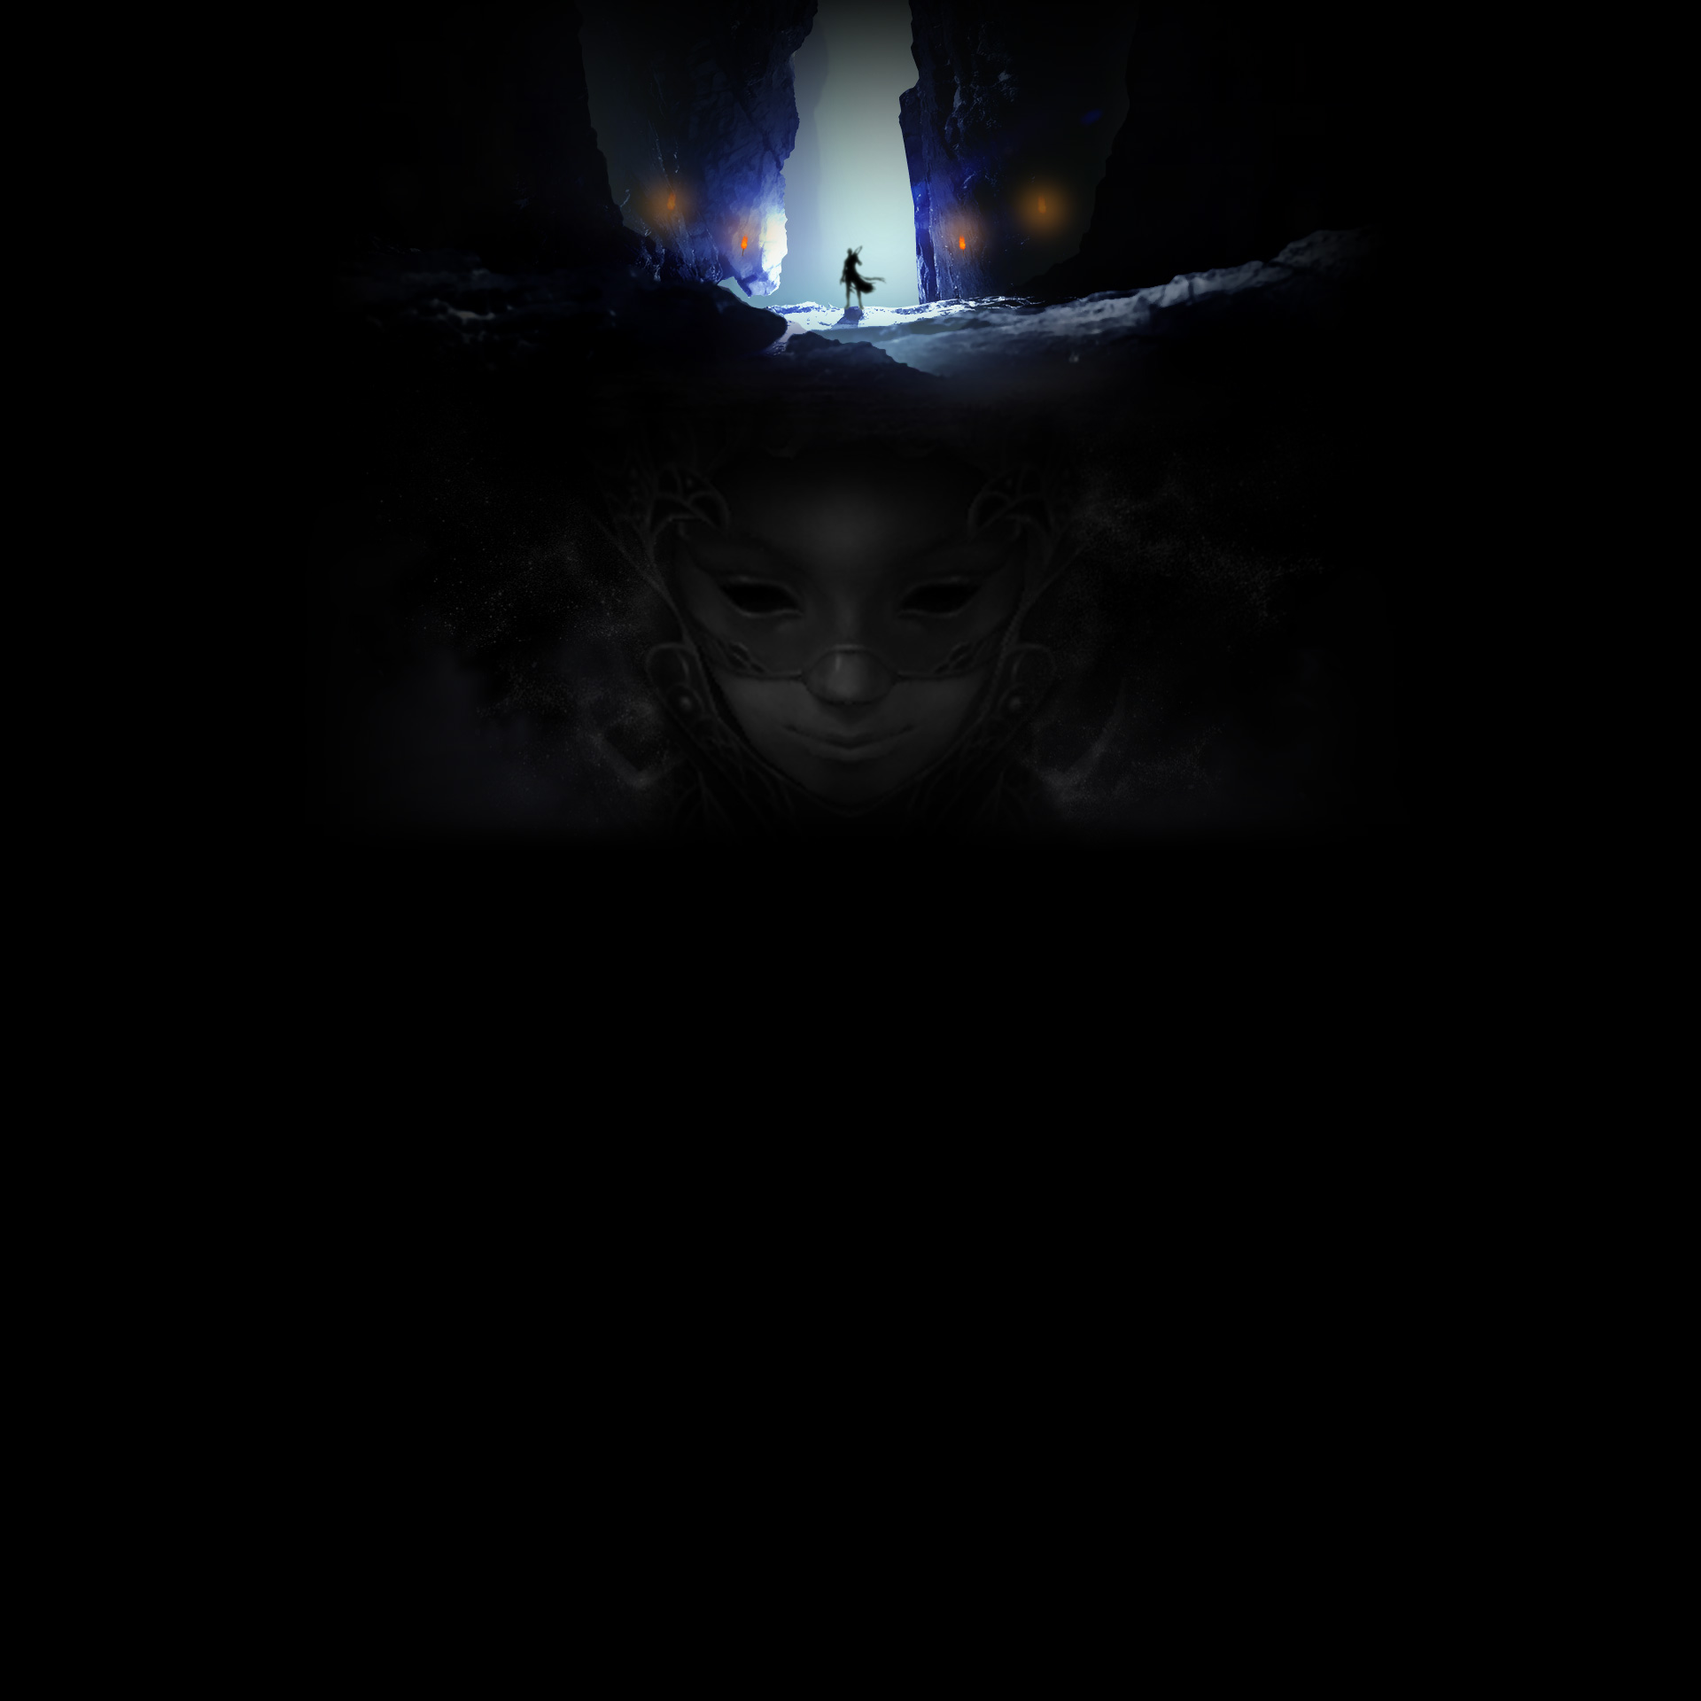
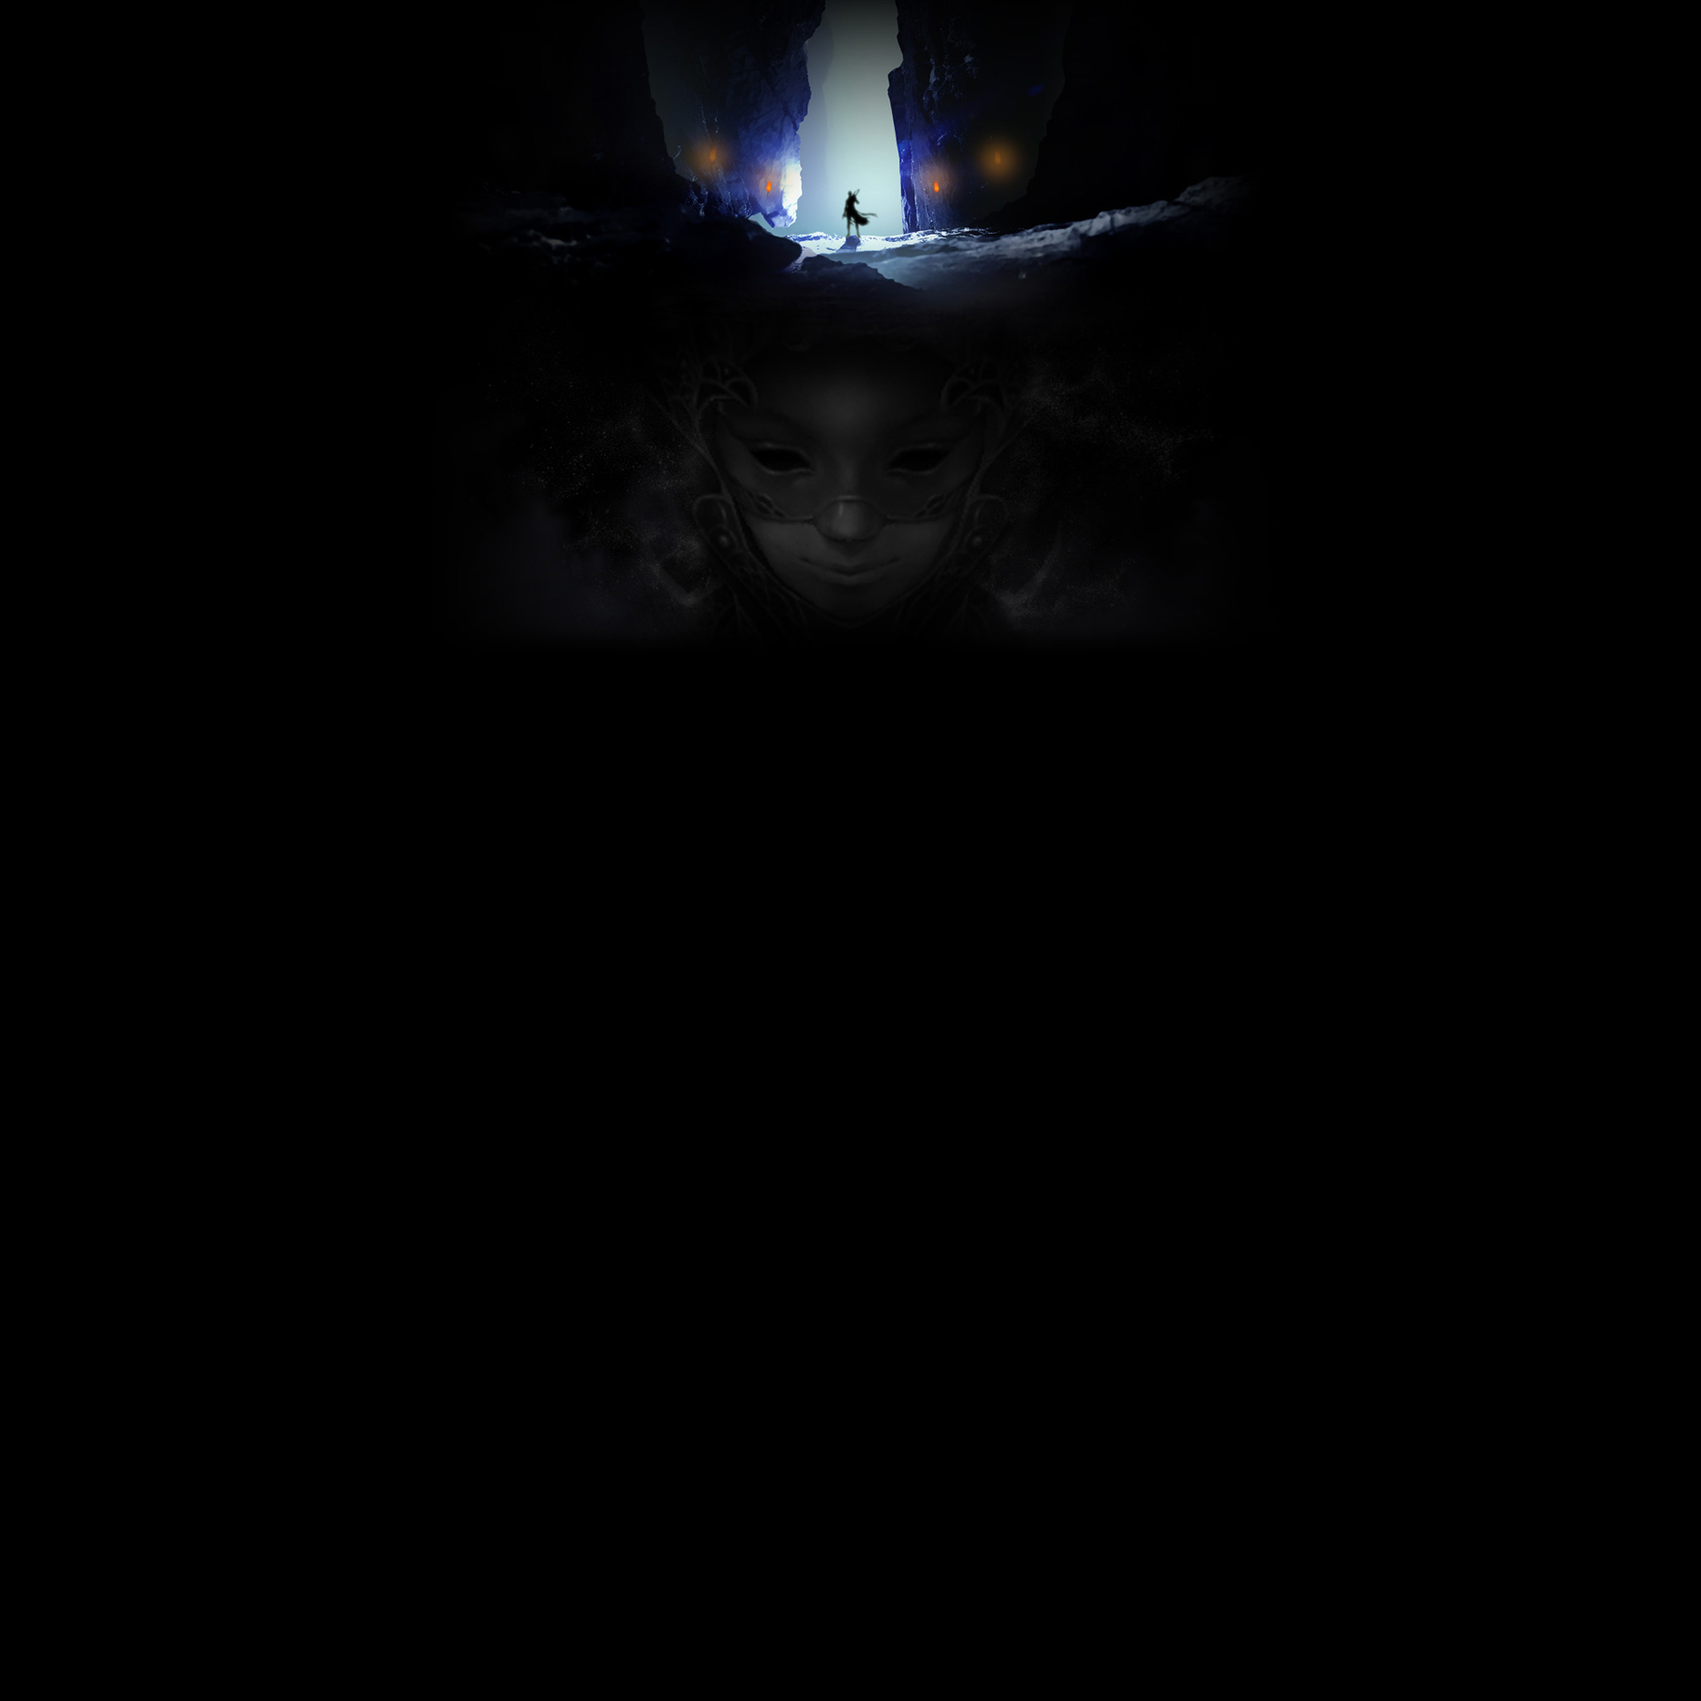
하단 네비게이션 추가 및 이미지 추가

diff --git a/work/23/js/update.js b/work/23/js/update.js
@@ -30,14 +30,15 @@ $(window).on({
             }else{
                 //메인 타이틀
                 var mainTitleTl = new TimelineMax();
-                mainTitleTl.fromTo($(".main_title h2 .m1, .main_title h2 .m2"), 1.2, {x:-0, y:-0, opacity:0, scaleX:1, scaleY:2}, {x:0, y:0, opacity:0.25, scaleX:1, scaleY:1, delay:0.15, ease:Power3.easeInOut})
+                mainTitleTl.fromTo($(".main_title h2 .m1, .main_title h2 .m2"), 1.2, {opacity:0, scaleX:1, scaleY:2}, {opacity:0.25, scaleX:1, scaleY:1, delay:0.15, ease:Power3.easeInOut})
                 .to($(".main_title h2 .m1, .main_title h2 .m2"), 1.5, {opacity:1, ease:Sine.easeInOut}, "-=0.45");
+                TweenMax.fromTo($(".main_title h2 .m3"), 1, {opacity:0}, {opacity:1, delay:0.5, ease:Sine.easeInOut});
                 TweenMax.fromTo($(".main_title .sub_title"), 0.75, {y:20, opacity:0}, {y:0, opacity:1, delay:1.3, ease:Sine.easeInOut});
                 TweenMax.fromTo($(".main_title .season"), 0.75, {y:-20, opacity:0}, {y:0, opacity:1, delay:1.3, ease:Sine.easeInOut});
                 TweenMax.fromTo($(".main_title .date"), 1, {opacity:0}, {opacity:1, delay:1.8, ease:Sine.easeInOut});
 
                 //메인 스모크
-                var smokeTL = new TimelineMax({repeat:-1, repeatDelay:-1.5, yoyo:false});
+                var smokeTL = new TimelineMax({repeat:-1, repeatDelay:-2.5, yoyo:false});
                 var smokePosition1 = [
                     {x:0, y:0, autoAlpha:0},
                     {x:100, y:-250, autoAlpha:1},
@@ -55,24 +56,47 @@ $(window).on({
                 ]
                 smokeTL.to($(".smoke .s1"), 8.5, {bezier:{type:"soft", values:smokePosition1}})
                 .to($(".smoke .s2"), 8.5, {bezier:{type:"soft", values:smokePosition2}}, "-=7.5")
-                .to($(".smoke .s3"), 6.5, {bezier:{type:"soft", values:smokePosition3}}, "-=7.5");
+                .to($(".smoke .s3"), 5.5, {bezier:{type:"soft", values:smokePosition3}}, "-=7.5");
             }
         }());
         
+        //메인 메뉴 클릭 이동
+        buttonClickScrollingPosition(".main_menu li");
+
         //네이게이션 클릭 이동
-        $(".nav li").find(">button").on("click", function(){
-            var arrSectionOffsetLeft =  getArrarrSectionOffsetLeft();
-            if($(this).parents("li").index() === 0){
-                $("html, body").scrollLeft(arrSectionOffsetLeft[1]);
-            }else{
-                $("html, body").scrollLeft(arrSectionOffsetLeft[4]);
-            }
-        });
+        buttonClickScrollingPosition(".nav li");
 
         //첫화면으로 클릭 이동
-        $(".btn_left").on("click", function(){
-            $("html, body").scrollLeft(0);
-        });
+        buttonClickScrollingPosition(".btn_left");
+
+        function buttonClickScrollingPosition(element){
+            var arrSectionOffsetLeft =  getArrSectionOffsetLeft();
+            var speed = 1200;
+            var easing = "easeOutQuart";
+            var $element = $(element);
+
+            if($element.length === 1){
+                $element.on("click", function(){
+                    $("html, body").stop().animate({scrollLeft:arrSectionOffsetLeft[0]}, speed, easing);
+                });              
+            }
+            if($element.length === 2){
+                $element.find(">button").on("click", function(){
+                    if($(this).parents("li").index() === 0){
+                        $("html, body").stop().animate({scrollLeft:arrSectionOffsetLeft[1]}, speed, easing);
+                    }else{
+                        $("html, body").stop().animate({scrollLeft:arrSectionOffsetLeft[4]}, speed, easing);
+                    }
+                });             
+            }
+            if($element.length === 6){
+                $element.each(function(i){
+                    $(this).find(">button").click(function(){
+                        $("html, body").stop().animate({scrollLeft:arrSectionOffsetLeft[i+1]}, speed, easing);
+                    });
+                });
+            }
+        }
         
         //던전 이미지 팝업
         $(".dungeon_img li").each(function(i){
@@ -90,19 +114,33 @@ $(window).on({
     },
     scroll : function(){
         var windowScrollLeft = $(window).scrollLeft();
-        var arrSectionOffsetLeft =  getArrarrSectionOffsetLeft();  
-       
-        // 네비게이션 active
-        if(windowScrollLeft >= arrSectionOffsetLeft[1]-(SetValueInfo.sectionWidth/3) && windowScrollLeft < arrSectionOffsetLeft[4]-(SetValueInfo.sectionWidth/3)){
-            $(".nav .menu1").addClass("active").siblings("li").removeClass("active");
-        }else if(windowScrollLeft >= arrSectionOffsetLeft[4]-(SetValueInfo.sectionWidth/3)){
-            $(".nav .menu2").addClass("active").siblings("li").removeClass("active");
-        }else{
-            $(".nav li").removeClass("active");
-        }
+        var arrSectionOffsetLeft =  getArrSectionOffsetLeft();  
        
         //백그라운드 확대, 축소, 패럴럭스
         parallaxObject(); 
+        
+        //메인메뉴 active
+        if(windowScrollLeft >= arrSectionOffsetLeft[1]-(SetValueInfo.sectionWidth/3) && windowScrollLeft < arrSectionOffsetLeft[4]-(SetValueInfo.sectionWidth/3)){
+            $(".main_menu .menu1").addClass("active").siblings("li").removeClass("active");
+        }else if(windowScrollLeft >= arrSectionOffsetLeft[4]-(SetValueInfo.sectionWidth/3)){
+            $(".main_menu .menu2").addClass("active").siblings("li").removeClass("active");
+        }else{
+            $(".main_menu li").removeClass("active");
+        }
+        
+        //nav show/hide
+        if(windowScrollLeft >= arrSectionOffsetLeft[1]-(SetValueInfo.sectionWidth/3)){
+            $(".wrap .nav").fadeIn("fast");
+        }else{
+            $(".wrap .nav").fadeOut("fast");
+        }
+
+        //nav active
+        for(var i=1; i<SetValueInfo.sectionLength; i++){          
+            if(windowScrollLeft >= arrSectionOffsetLeft[i]-(SetValueInfo.sectionWidth/3)){
+                $(".nav li:eq("+(i-1)+")").addClass("active").siblings("li").removeClass("active");
+            }
+        }
     }
 });
 
@@ -137,7 +175,7 @@ function initSizeSetting(){
 }
 
 //section scrollLeft 배열 저장
-function getArrarrSectionOffsetLeft(){
+function getArrSectionOffsetLeft(){
     var secitonOffsetLeftArray = [];
     for(var i=0; i<SetValueInfo.sectionLength; i++){
         //secitonOffsetLeftArray[i] = $(".section:eq("+i+")").offset().left;
@@ -164,7 +202,7 @@ function horizontalScrollingEvent(){
         }
         
         //scrollLeftPosition -= (delta * 80);
-        scrollLeftPosition = windowScrollLeft - (delta * 400);
+        scrollLeftPosition = windowScrollLeft - (delta * 560);
         
         // DOWN, go right
         if(delta < 0){ 
@@ -201,16 +239,14 @@ function getPositionValue(sectionOffsetLeft, windowScrollLeft){
 //백그라운드 확대, 축소, 패럴럭스
 function parallaxObject(){
     var windowScrollLeft = $(window).scrollLeft();
-    var arrSectionOffsetLeft =  getArrarrSectionOffsetLeft(); 
-    
+    var arrSectionOffsetLeft =  getArrSectionOffsetLeft();    
     var bgScale = 0;
     var standardScale = 130;
     var limitScale = 100;
     var standardDivision = 60;
-
     var monsterOpacity = 0; 
     var XPositions = {};
-
+    
     //reset position
     if(windowScrollLeft === 0){
         $(".section .monster, .section .dungeon_img li").css({"transform" : "translateX("+ 0 +"px)"});

diff --git a/work/23/css/update.css b/work/23/css/update.css
@@ -3,9 +3,9 @@
 html, body, div, span, applet, object, iframe, h1, h2, h3, h4, h5, h6, p, blockquote, pre, a, abbr, acronym, address, big, cite, code, del, dfn, em, img, ins, kbd, q, s, samp, small, strike, strong, sub, sup, tt, var, b, u, i, center, dl, dt, dd, ol, ul, li, fieldset, form, label, legend, button, table, caption, tbody, tfoot, thead, tr, th, td, article, aside, canvas, details, embed, figure, figcaption, footer, header, hgroup, menu, nav, output, ruby, section, summary, time, mark, audio, video{margin:0;padding:0;border:0;vertical-align:baseline}
 /* HTML5 display-role reset for older browsers */
 article, aside, details, figcaption, figure, footer, header, hgroup, menu, nav, section{display:block}
-body{font-family:'NotoSansDemiLight','맑은 고딕','malgun gothic','돋움','dotum','arial','sans-serif';font-size:16px;line-height:1;color:#fff}
+body{font-family:'NotoSansDemiLight','맑은 고딕','malgun gothic','돋움','dotum','arial','sans-serif';font-size:16px;line-height:1;color:#fff;/* -webkit-font-smoothing:subpixel-antialiased;text-rendering:optimizeLegibility */}
 h1, h2, h3 ,h4 ,h5 ,h6{font-family:'맑은 고딕','malgun gothic','돋움','dotum','arial','sans-serif'}
-ol, ul{list-style:none}
+ol, ul, li{list-style:none;list-style-type:none !important}
 a, img{vertical-align:top}
 a, a:link, a:visited{color:#000;text-decoration:none;-webkit-tap-highlight-color:rgba(0,0,0,0);-webkit-tap-highlight-color:transparent}
 a:hover{text-decoration:none}
@@ -42,7 +42,7 @@ html{background-color:#000;overflow-x:scroll;overflow-y:hidden}
 .wrap .shadow{position:fixed;top:0;bottom:0;left:0;right:0;display:block;width:100%;height:100%;background-color:#000;z-index:1000}
 
 /* fixed */
-.wrap h1, .wrap .aside, .wrap .nav, .wrap .address{position:fixed;z-index:100}
+.wrap h1, .wrap .aside, .wrap .main_menu, .wrap .nav, .wrap .address{position:fixed;z-index:100}
 .wrap h1 a, .wrap .link a{display:block;width:100%;height:100%}
 .wrap h1{left:40px;top:30px;width:200px;height:56px}
 .wrap .aside{right:40px;top:40px}
@@ -58,17 +58,24 @@ html{background-color:#000;overflow-x:scroll;overflow-y:hidden}
 .wrap .user .btn_left{bottom:0;*bottom:-3px}
 .wrap .user .btn_none span{background-position:-120px 0}
 .wrap .user .btn_left span{background-position:-120px -18px}
-.wrap .address{width:100%;left:0;bottom:26px;font-family:'맑은 고딕','malgun gothic';font-size:15px;color:#fff;line-height:1.2;text-align:center;opacity:0.2;filter:alpha(opacity=20)}
-.wrap .nav{left:50%;top:0;width:560px;height:129px;margin-left:-280px}
-.wrap .nav li{float:left;position:relative;width:280px;height:129px}
-.wrap .nav button{display:block;width:100%;height:100%}
-.wrap .nav button .default, .wrap .nav button .hover{display:block;width:100%;height:100%;background:url("../images/spr_nav.png") no-repeat;transition:all 150ms ease-in}
-.wrap .nav button .hover{position:absolute;left:0;top:0;opacity:0;filter:alpha(opacity=0)}
-.wrap .nav .active button .default, .wrap .nav button:hover .default{opacity:0;filter:alpha(opacity=0)}
-.wrap .nav .active button .hover, .wrap .nav button:hover .hover{opacity:1;filter:alpha(opacity=100)}
-.wrap .nav .menu2 .default{background-position:-280px 0}
-.wrap .nav .menu1 .hover{background-position:0 -129px}
-.wrap .nav .menu2 .hover{background-position:-280px -129px}
+.wrap .address{right:40px;bottom:26px;font-family:'맑은 고딕','malgun gothic';font-size:12px;color:#fff;line-height:1.2;text-align:center;opacity:0.2;filter:alpha(opacity=20)}
+.wrap .main_menu{left:50%;top:0;width:560px;height:129px;margin-left:-280px}
+.wrap .main_menu li{float:left;position:relative;width:280px;height:129px}
+.wrap .main_menu button, .wrap .nav li button{display:block;width:100%;height:100%}
+.wrap .main_menu button .default, .wrap .main_menu button .hover{display:block;width:100%;height:100%;background:url("../images/spr_nav.png") no-repeat;transition:all 150ms ease-in}
+.wrap .main_menu button .hover{position:absolute;left:0;top:0;opacity:0;filter:alpha(opacity=0)}
+.wrap .main_menu .active button .default, .wrap .main_menu button:hover .default{opacity:0;filter:alpha(opacity=0)}
+.wrap .main_menu .active button .hover, .wrap .main_menu button:hover .hover{opacity:1;filter:alpha(opacity=100)}
+.wrap .main_menu .menu2 .default{background-position:-280px 0}
+.wrap .main_menu .menu1 .hover{background-position:0 -129px}
+.wrap .main_menu .menu2 .hover{background-position:-280px -129px}
+.wrap .nav{display:none;width:220px;height:28px;left:50%;bottom:30px;margin-left:-110px}
+.wrap .nav .line{position:absolute;left:-17px;top:9px;display:block;width:254px;height:2px;background:url("../images/nav_line.png") no-repeat}
+.wrap .nav ul{position:relative}
+.wrap .nav li{float:left;position:relative;width:18px;height:18px;margin-right:20px;background-color:#1e1e1e;border:1px solid #95805b;border-radius:10px}
+.wrap .nav .nav6{margin-right:0}
+.wrap .nav li button span{display:block;position:absolute;left:50%;top:50%;width:0px;height:0px;background-color:#c4ab79;border-radius:5px;transition:all 300ms ease}
+.wrap .nav li.active button span{display:block;width:10px;height:10px;margin:-5px 0 0 -5px}
 
 /* section contents */
 .section1 img{width:100%}
@@ -76,7 +83,7 @@ html{background-color:#000;overflow-x:scroll;overflow-y:hidden}
 .section1 .smoke img{opacity:0}
 .section1 .smoke .s2, .section1 .smoke .s3{position:absolute;left:0;top:0}
 .section1 .main_title{position:absolute;left:51.5%;width:26.823%}
-.section1 .main_title .m2{position:absolute;left:0;top:0}
+.section1 .main_title .m2, .section1 .main_title .m3{position:absolute;left:0;top:0}
 .section1 .sand{position:absolute;left:4.1666%;top:0;width:55.2%}
 .section1 .sand span{float:left;display:block;width:25%;opacity:0;transition:opacity 800ms linear}
 .load .section1 .sand span{opacity:1}
@@ -94,7 +101,7 @@ html{background-color:#000;overflow-x:scroll;overflow-y:hidden}
 .load .section1 .sand .s12{transition-delay:1200ms}
 .section2 p{top:46%;color:#5a546a}
 .section2 p q{height:91px}
-.section2 .monster1{left:-498px;top:135px;width:915px;height:1000px;background:url("../images/monster1.png") no-repeat;opacity:0;filter:alpha(opacity=0);/* transition:opacity 150ms linear */}
+.section2 .monster1{left:-498px;top:135px;width:915px;height:1000px;background:url("../images/monster1.png") no-repeat;opacity:0;filter:alpha(opacity=0)}
 .section2 .monster2{right:-388px;top:-32px;width:944px;height:770px;background:url("../images/monster2.png") no-repeat}
 .section2 .monster3{right:-822px;top:401px;width:1550px;height:890px;background:url("../images/monster3.png") no-repeat}
 .section3 .dungeon_info{top:31.7%;width:934px;margin-left:-468px}
@@ -164,6 +171,8 @@ html{background-color:#000;overflow-x:scroll;overflow-y:hidden}
 @media only screen and (-webkit-min-device-pixel-ratio:1.3){
     .wrap, .section{max-height:960px}
     .wrap .user{display:none}
+    .wrap .address{top:920px}
+    .wrap .nav{top:902px}
     .section2 p, .section5 p{font-size:15px;line-height:1.25}
     .section2 .bg, .section5 .bg{background-attachment:scroll} 
 }

diff --git a/work/23/update.html b/work/23/update.html
@@ -24,10 +24,21 @@
             <li class="event"><a href="http://cabal.co.kr/event?categoryNo=0" title="이벤트"></a></li>
         </ul>  
     </div>   
-    <ul class="nav">
+    <ul class="main_menu">
         <li class="menu1"><button type="button"><span class="default"></span><span class="hover"></span><span class="blind">UPDATE 1 미궁</span></button></li>
         <li class="menu2"><button type="button"><span class="default"></span><span class="hover"></span><span class="blind">UPDATE 2 에이션트 툼</span></button></li>
     </ul>
+    <div class="nav">
+        <span class="line"></span>
+        <ul>
+            <li><button type="button"><span></span></button></li>
+            <li><button type="button"><span></span></button></li>
+            <li><button type="button"><span></span></button></li>
+            <li><button type="button"><span></span></button></li>
+            <li><button type="button"><span></span></button></li>
+            <li class="nav6"><button type="button"><span></span></button></li>
+        </ul>
+    </div>
     <p class="address">Copyright ⓒ ESTgames Corp. All Rights Reserved.</p>
     <!-- //fixed area -->
     <!-- scroll section -->
@@ -53,7 +64,7 @@
             <img src="./images/smoke.png" alt="" class="s3">
         </span>
         <div class="main_title">
-            <h2><img src="./images/txt_maintitle1.png" alt="미" class="m1"><img src="./images/txt_maintitle2.png" alt="궁" class="m2"></h2>
+            <h2><img src="./images/txt_maintitle1.png" alt="미" class="m1"><img src="./images/txt_maintitle2.png" alt="궁" class="m2"><img src="./images/txt_part.png" alt="PART Ⅹ" class="m3"></h2>
             <p class="sub_title"><img src="./images/txt_subtitle.png" alt="신성한 신들의 거대한 비밀"></p>
             <p class="season"><img src="./images/txt_season.png" alt="WINTER UPDATE"></p>
             <p class="date"><img src="./images/txt_date.png" alt="12.11"></p>  
@@ -191,6 +202,6 @@
 <script src="https://gimunique.github.io/lib/js/jquery-1.9.1.min.js"></script>
 <script src="https://gimunique.github.io/lib/js/jquery.easing.1.3.min.js"></script>
 <script src="https://gimunique.github.io/lib/js/TweenMax.js"></script>
-<script src="./js/update.js"></script>
+<script src="http://image.cabal.co.kr/Intro/191211_update/js/update.js"></script>
 </body>
 </html>
